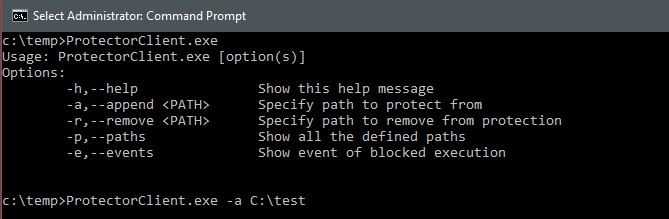
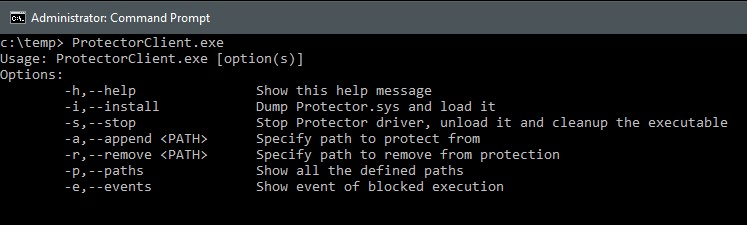
Update README

diff --git a/README.md b/README.md
@@ -4,31 +4,43 @@ Kernel driver to monitor execution of programs from paths defined to be avoided 
 ---
 
 ### How to use
-1. Install the driver - run the following command using CMD:
-```shell
-    sc create protector type= kernel binPath= <location of Protector.sys file>
+##### ProtectorClient CLI options
+```Bash
+c:\> ProtectorClient.exe
+Usage: ProtectorClient.exe [option(s)]
+Options:
+        -h,--help               Show this help message
+        -i,--install            Dump Protector.sys and load it
+        -s,--stop               Stop Protector driver, unload it and cleanup the executable
+        -a,--append <PATH>      Specify path to protect from
+        -r,--remove <PATH>      Specify path to remove from protection
+        -p,--paths              Show all the defined paths
+        -e,--events             Show event of blocked execution
 ```
-2. Load the driver to kernel space - run the following command using CMD:
 
-```shell
-    sc start protector
-```
-3. Use the Protector CLI - ToDO
-   * <code>ProtectorClient.exe -h</code> - get help information
-   * <code>ProtectorClient.exe -a \<path></code> - add new path
-   * <code>ProtectorClient.exe -r \<path></code> - remove existing path
-   * <code>ProtectorClient.exe -p </code> - get all defined paths
-   * <code>ProtectorClient.exe -e</code> - consume events from driver
----
+##### Use case example
+Show CLI commands:
 
-### Example of running Protector
 <img src="imgs/protectorCLI.jpg" width=500></img>
-<img src="imgs/protectorExample.jpg" width=500></img>
-* Protector driver have been loaded to kernel space and start running
-* ProtectorClient have been used to add path to protect from: "C:\TEST"
-* Protector driver monitoring process executions
-* Protector have been blocking programs execution from the blocked path
----
+
+<img src="imgs/usage_example.jpg" width=500></img>
+
+(-i) Installing Protector driver
+(-a <path>) Adding malicious paths to protect from
+
+<img src="imgs/dbg_log_add_bad_path.jpg" width=500></img>
+
+(-p) Verify the paths
+<i>Now Protector preform the protections</i>
+
+<img src="imgs/dbg_log_blocking.jpg" width=500></img>
+
+Dangerous programs would be blocked from executing:
+
+<img src="imgs/blocked_process.jpg" width=500></img>
+
+(-s) Uninstall Protector driver
+
 
 ### Notes
 * Turn your machine to test-signing mode in order to use Protector.
@@ -36,21 +48,23 @@ Kernel driver to monitor execution of programs from paths defined to be avoided 
 ---
 
 ### ToDo
-- [X] Add notification to processes
-- [X] Search for execution for monitored paths
-- [X] Add data structure to hold multiple paths
-- [ ] Add data structure to hold event (attempts to run program from monitored path)
-- [ ] Update client application to support all the functionality
+- [ ] Add object notification
+- [ ] Add class in Kernel-Code to wrap all protector logic 
+- [ ] Add data structure to hold blocked-program events
+- [ ] Add Kernel & user mode support for getting events data
 
 ---
 
 ### Useful links
 * OSR Windows Linked Lists tutorial - https://www.osronline.com/article.cfm%5Earticle=499.htm
 * DebugView not showing KdPrint output - https://stackoverflow.com/a/45627365
+* Resources in Visual Studio - https://www.ired.team/offensive-security/code-injection-process-injection/loading-and-executing-shellcode-from-portable-executable-resources
+* UNICODE_STRING not guaranteed to be NULL-terminated - https://community.osr.com/discussion/243646/wcsstr-in-kernel
+* Global variables in Kernel-Code - LNK2019 unresolved external symbol atexit referenced in function "void __cdecl `dynamic initializer for 'xxxx''(void)" - https://community.osr.com/discussion/144190/unresolved-external-symbol-atexit
 ---
 
 
 ### Common issues
 #### Resource file opened in another editor
 When using `Resource View` in `Visual Studio` you can get this error sometimes. <br>
-I used `Notepad++` to open the file from the local folder and then try to open the `Resource View` again and it fixed the problem.
+I've used `Notepad++` to open the file from the local folder and then try to open the `Resource View` again and it fixed the problem.
